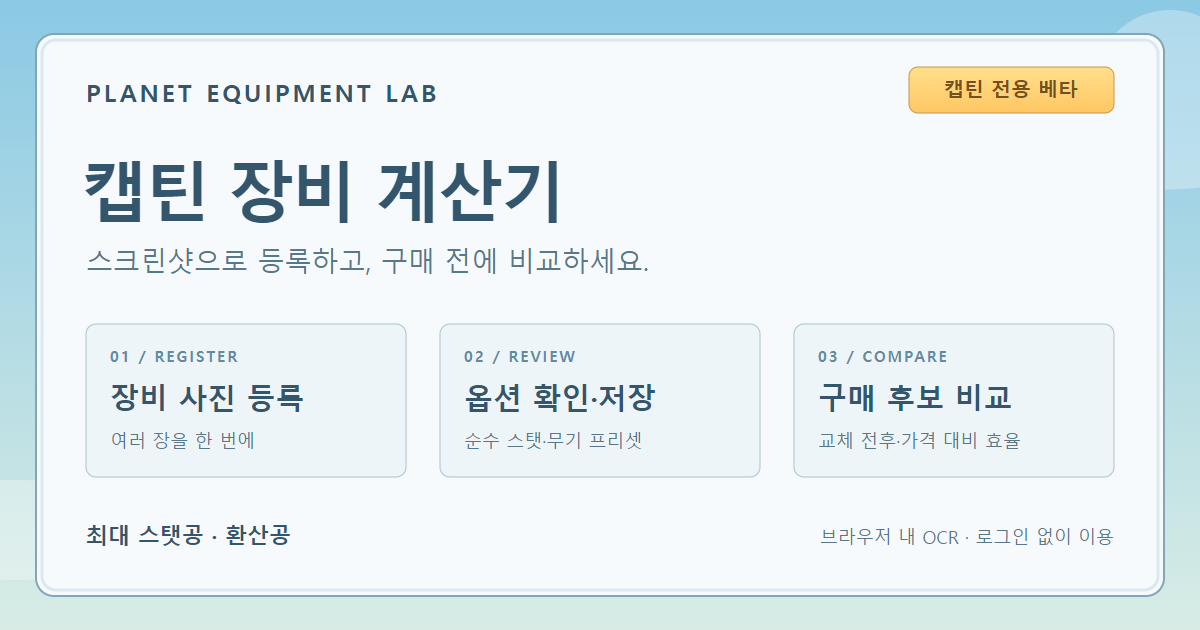
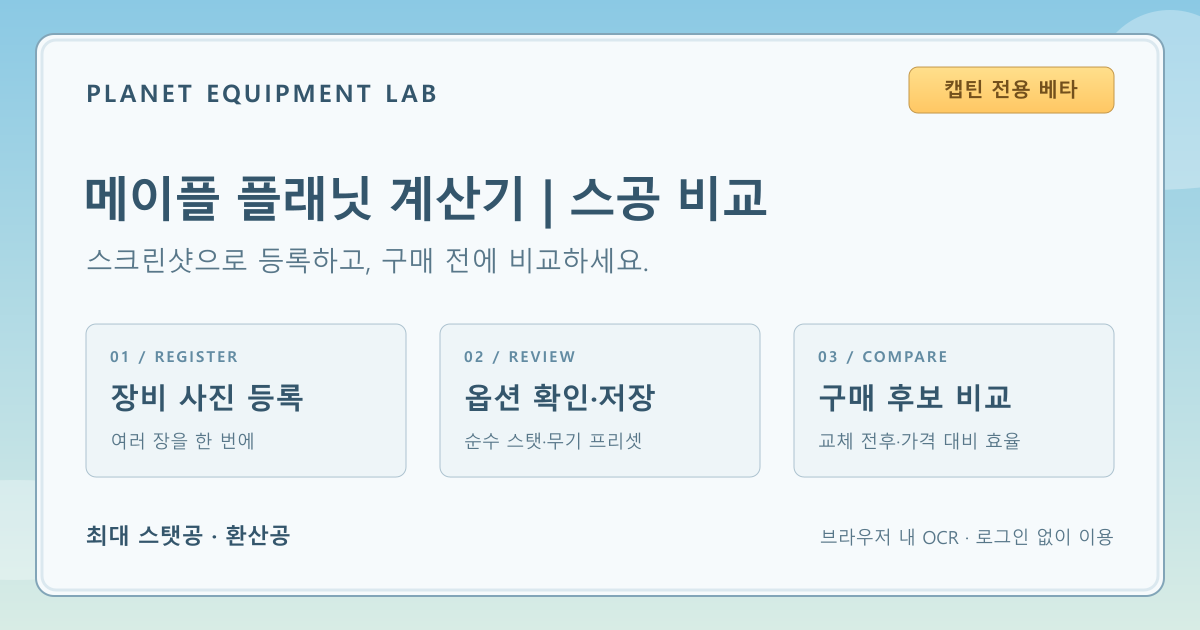
fix: use Maple Planet calculator title and share branding

diff --git a/tests/metadata.test.ts b/tests/metadata.test.ts
@@ -4,9 +4,9 @@ import { resolve } from "node:path";
 import { afterEach, beforeEach, describe, expect, it, vi } from "vitest";
 import { createMetadata } from "@/features/site/metadata";
 
-const title = "플래닛 캡틴 장비 계산기 | 베타";
+const title = "메이플 플래닛 계산기 | 스공 비교";
 const description =
-  "캡틴 전용 베타. 장비 스크린샷으로 세팅을 등록하고 최대 스탯공·환산공과 구매 후보의 가격 대비 효율을 비교합니다.";
+  "메이플 플래닛 장비 스크린샷으로 최대 스탯공·환산공과 구매 후보의 가격 대비 효율을 비교합니다. 현재 베타는 캡틴만 지원합니다.";
 const canonicalOrigin =
   "https://planet.example.com/";
 const canonicalImage =

diff --git a/tests/calculator/calculator-app.test.tsx b/tests/calculator/calculator-app.test.tsx
@@ -286,9 +286,9 @@ describe("calculator app", () => {
 
   it("publishes the Korean product metadata and document language", () => {
     expect(PRODUCT_METADATA).toMatchObject({
-      title: "플래닛 캡틴 장비 계산기 | 베타",
+      title: "메이플 플래닛 계산기 | 스공 비교",
       description:
-        "캡틴 전용 베타. 장비 스크린샷으로 세팅을 등록하고 최대 스탯공·환산공과 구매 후보의 가격 대비 효율을 비교합니다.",
+        "메이플 플래닛 장비 스크린샷으로 최대 스탯공·환산공과 구매 후보의 가격 대비 효율을 비교합니다. 현재 베타는 캡틴만 지원합니다.",
     });
 
     const layout = RootLayout({ children: <main>계산기</main> });

diff --git a/features/site/metadata.ts b/features/site/metadata.ts
@@ -1,9 +1,9 @@
 import type { Metadata } from "next";
 
 export const PRODUCT_METADATA = {
-  title: "플래닛 캡틴 장비 계산기 | 베타",
+  title: "메이플 플래닛 계산기 | 스공 비교",
   description:
-    "캡틴 전용 베타. 장비 스크린샷으로 세팅을 등록하고 최대 스탯공·환산공과 구매 후보의 가격 대비 효율을 비교합니다.",
+    "메이플 플래닛 장비 스크린샷으로 최대 스탯공·환산공과 구매 후보의 가격 대비 효율을 비교합니다. 현재 베타는 캡틴만 지원합니다.",
   icons: {
     icon: "/favicon.svg",
     shortcut: "/favicon.svg",

diff --git a/DECISIONS.md b/DECISIONS.md
@@ -2068,3 +2068,16 @@
 - 평가·개선 제안: 기본 기술 SEO는 준비됐으나 검색 유입 최적화는 초기 단계다. 현재 제목은 ‘플래닛 캡틴 장비 계산기 | 베타’, H1은 ‘나의 장비 작업실’이며 공개 본문·메타데이터에 ‘메이플플래닛’ 명칭이 없다. 제목/H1/짧은 설명에 정확한 서비스 명칭을 자연스럽게 반영하고, Search Console·네이버 서치어드바이저에서 소유권/색인/수집/검색 실적을 확인하는 순서를 우선 제안한다. robots.txt·sitemap.xml은404여서 명시적 크롤링/sitemap 안내를 보강할 수 있으나 Google에서 robots404가 크롤링 차단을 뜻하지 않으며 한 페이지 사이트의 sitemap 누락만으로 색인 불가라고 판정하지 않는다. 검색용 사용법·환산공·장비 비교 설명 페이지는 후속 제안이며 계산기에 반복 안내를 늘리는 정책으로 확대하지 않는다. JSON-LD는 없지만 낮은 우선순위의 선택 보강이며 순위 상승을 보장하지 않는다.
 - 한계: 공개 검색 도구의 site: 및 URL 문자열 검색에서 결과를 찾지 못했으나 이는 Google/네이버 미색인 확정 근거가 아니다. 계정별 Search Console·서치어드바이저 등록/실적은 확인하지 않았고 Lighthouse·Core Web Vitals·실사용 속도·백링크·검색 순위도 측정하지 않았다. HTTP 응답시간을 실제 사용자 성능 점수로 해석하지 않는다.
 - 검증·보존·Git: 공개 HTTP/HTML과 공식 문서를 대조했으며 증거는 Git 제외 output/seo-audit-0929/home.html·http-audit.json에 보관한다. 앱 테스트/빌드는 코드 변경이 없어 반복하지 않고 기록의 공백·스테이징만 검사한다. 이번 기록만 비운영 fix/ocr-auto-recovery에 커밋·푸시하며 선행 D-143~145 미커밋 기록과 진행 중 OCR 소스/테스트를 보존한다. 운영 배포 없음.
+
+## D-157 — 서비스 제목을 메이플 플래닛 계산기 | 스공 비교로 변경
+
+- 기록 시각: 2026-09-29 14:47:17 KST (UTC+09:00)
+- 사용자 결정 시각: 미상 — 기록 시각과 다름
+- 상태: 사용자 확정 명칭 변경 요청. 다른 직업 공개·운영 배포 승인은 포함하지 않는다.
+- 구현 상태: 메타데이터·공유 이미지·관련 문서/기존 테스트 수정 및 로컬 검증 완료. 운영 반영 없음.
+- 결정·요청: 사이트 제목을 ‘메이플 플래닛 계산기 | 스공 비교’로 표시한다. 현재 캡틴만 지원하는 것은 베타 범위다.
+- 이유: 사용자가 ‘아직 베타버전이라 캡틴밖에없지’라고 설명했다.
+- 근거·관련 기록: 현재 사용자 발언, D-135~137 캡틴 베타, D-142 공개 상태, D-146 운영 배포 제한, D-156 SEO 평가. features/site/metadata.ts·public/og-captain.svg/PNG·tests/metadata.test.ts·tests/calculator/calculator-app.test.tsx·README.md·AGENTS.md.
+- 작업 결과: 브라우저/검색 제목과 OG/Twitter 제목·이미지 대체 설명을 요청한 명칭으로 통일했다. 소개 설명에는 메이플 플래닛과 장비 비교 기능, ‘현재 베타는 캡틴만 지원합니다’를 표시한다. 기존 SVG의 제목을 수정하고1200×630 PNG로 렌더링했으며 기존 캡틴 전용 베타 배지와 구성을 유지했다. AGENTS.md의 명칭 정책과 README를 동기화했다. 기존 ‘나의 장비 작업실’ H1·직업 제한·계산·OCR·저장 동작은 이번 변경의 대상이 아니다.
+- 검증: 메타데이터·앱·캡틴 베타의 기존 테스트3파일59개, 전체 TypeScript 검사, 변경 TypeScript 파일 ESLint 및 diff 공백 검사 통과. 새 공유 PNG를 직접 확인해 한글/제목 잘림과 배지 표시를 검사했다. 이번 소스로 임시 Vinext 개발서버를 시작해200 응답의 브라우저 제목·OG/Twitter 제목과 기존 캡틴 베타 안내를 확인하고 서버를 종료했다. 먼저 조회한 기존3001 서버는 이전 빌드를 제공했으므로 새 소스 검증으로 쓰지 않는다. 문구/이미지 변경의 검증으로 범위를 한정하고 기존 서버의 공유 빌드 산출물을 다시 생성하거나 운영 SEO 반영/색인 완료를 주장하지 않는다.
+- Git·보존·후속: 이번 메타데이터·공유 자산·기존 테스트·README·명칭 정책·결정 기록만 비운영 fix/ocr-auto-recovery에 커밋·푸시한다. 선행 D-143~145 기록과 진행 중 OCR 소스/테스트/정책 변경은 스테이징에서 제외해 보존한다. 공개 서버는 D-146에 따른 별도 명시 요청 후 반영한다.

diff --git a/AGENTS.md b/AGENTS.md
@@ -29,6 +29,7 @@
 - 입력 피로 감소가 최우선 UX 원칙이다. 정확성을 희생해 인식값을 자동 확정하지 않는다.
 - 2026-09-27 사용자 요청에 따라 반복 설명과 과도한 안내 문구를 제거한다. 제목·필드·버튼으로 알 수 있는 동작을 문장으로 다시 설명하지 않는다. 저장·붙여넣기·공통 설정 안내는 필요한 위치 한 곳에서 짧게 제공하고, 오류·검토 필요·착용 불가 사유는 해당 상황에서 표시한다.
 - 최종 대상은 URL을 아는 모든 사용자 및 검색 유입 사용자다. 로그인·길드 초대·회원가입을 이용 조건으로 만들지 않는다.
+- 2026-09-29 사용자 확정(D-157): 사이트·검색·공유 제목은 **‘메이플 플래닛 계산기 | 스공 비교’**로 표시한다. 캡틴은 현재 베타의 지원 범위이며 영구적인 서비스명으로 한정하지 않는다. 설명·화면·공유 이미지의 별도 배지에서 현재 캡틴만 지원함을 안내한다. 이 명칭 변경으로 다른 직업 공개나 운영 배포가 승인된 것은 아니다.
 - PC 우선이며 작은 화면에서도 입력 상태를 보존한다.
 - React 기반을 유지한다. 최종 배포 목표는 Vercel이며 현재는 로컬 개발을 우선한다. Streamlit로 재작성하지 않는다.
 - 현재 코드에는 신궁·캡틴·나이트로드 3종이 있다. **2026-09-29 사용자 확정: 첫 베타 공개 대상은 캡틴만으로 한정한다.** 신궁·나이트로드는 후속 공개 범위이며 기존 기능·저장 데이터는 보존한다. 신궁 패시브 보완과 나이트로드 후보 비교는 캡틴 베타의 오픈 조건에 포함하지 않는다. 캡틴에도 영향을 주는 공통 계산 문제·OCR·저장·후보 비교 검증은 유지한다. 공개 범위 결정과 실제 배포 실행·검증 완료는 구분하며 배포는 별도 승인 정책을 따른다. 추가 직업은 별도 요청 시 확장한다.

diff --git a/README.md b/README.md
@@ -1,4 +1,4 @@
-# 메이플플래닛 장비 성능 비교
+# 메이플 플래닛 계산기 | 스공 비교
 
 장비 스크린샷으로 입력 부담을 줄이고, 실제 캐릭터를 기준으로 장비 성능과 구매 효율을 비교하는 공개 웹앱을 개발합니다.
 
@@ -6,7 +6,7 @@
 
 **첫 베타 공개 대상은 캡틴만입니다**(2026-09-29 확정). 아래 구현 목록에는 보존 중인 신궁·나이트로드 기능도 포함하며, 두 직업의 공개 지원은 후속 범위입니다. 공개 범위 확정과 실제 배포 완료는 구분합니다.
 
-공개 화면은 캡틴으로 고정하고 제목·공유 이미지에도 캡틴 전용 베타를 표시합니다. 기존 캡틴 세팅은 이어서 불러오고 베타 세팅은 별도 브라우저 키에 저장합니다. 기존 다른 직업 저장값은 그대로 보존하며, 베타 초기화 후 구형 세팅을 다시 자동 복원하지 않습니다.
+사이트·공유 제목은 ‘메이플 플래닛 계산기 | 스공 비교’입니다. 현재 공개 화면은 캡틴으로 고정하며, 설명·화면·공유 이미지의 별도 배지에서 캡틴 전용 베타임을 안내합니다. 기존 캡틴 세팅은 이어서 불러오고 베타 세팅은 별도 브라우저 키에 저장합니다. 기존 다른 직업 저장값은 그대로 보존하며, 베타 초기화 후 구형 세팅을 다시 자동 복원하지 않습니다.
 
 기본·추가·버프의 전체 크리확률은100%까지 허용합니다. 초과 입력은 오류로 표시해 저장·후보 확정 비교·옵션 효율을 보류하고, 계산과 스탯창에서도100%를 넘겨 적용하지 않습니다. 입력값을 수정하면 비교를 재개합니다.
 
